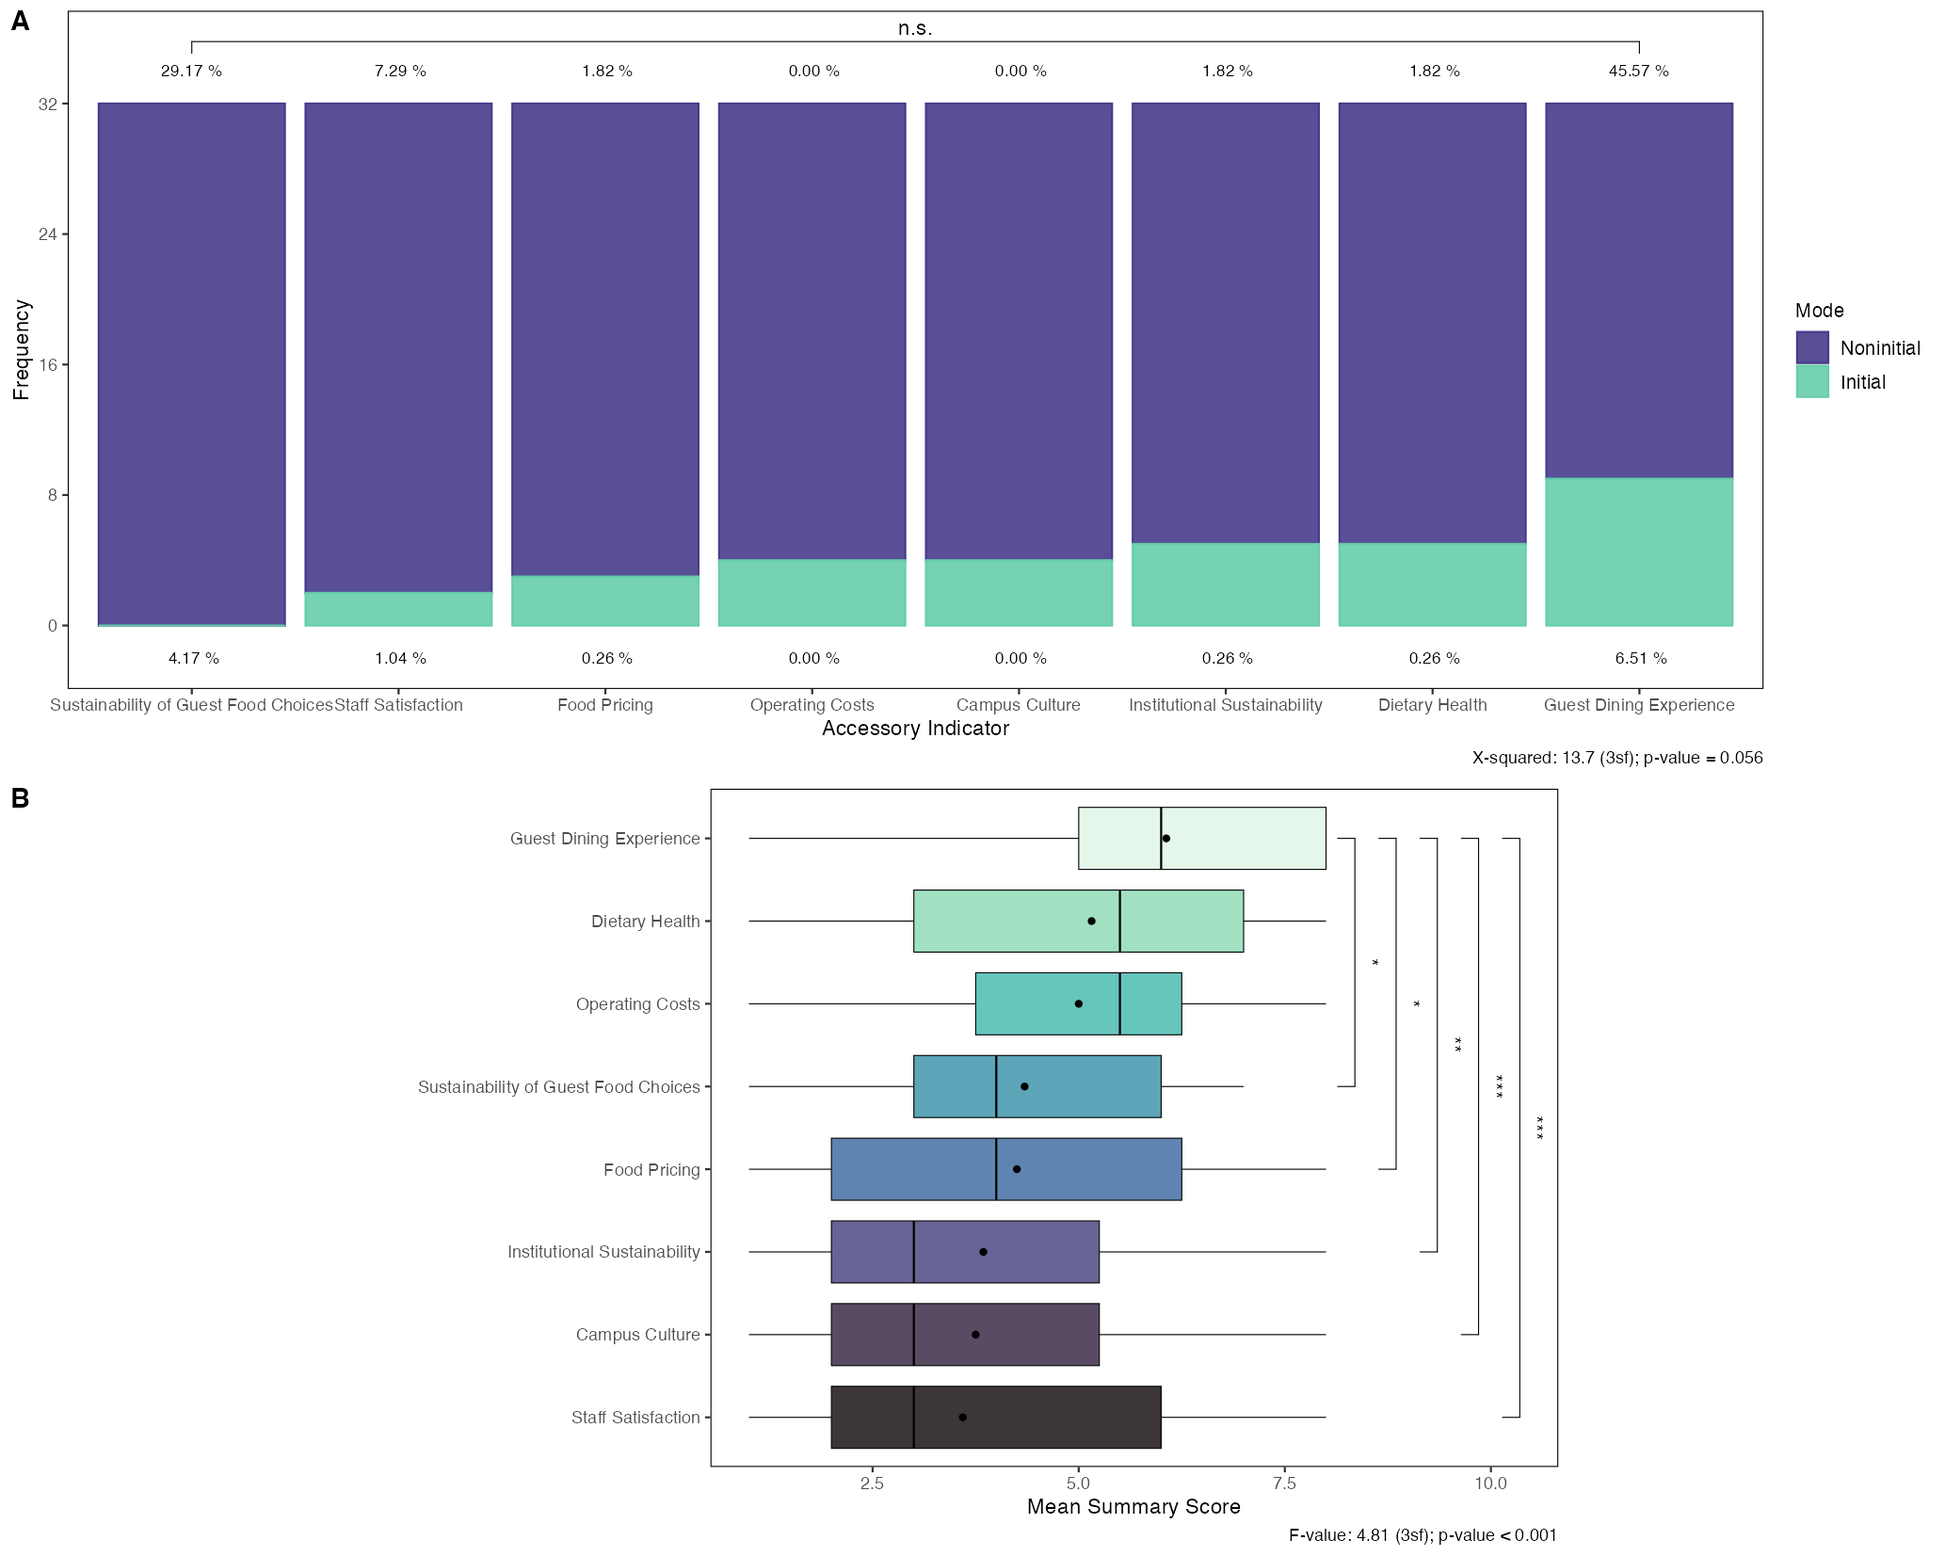
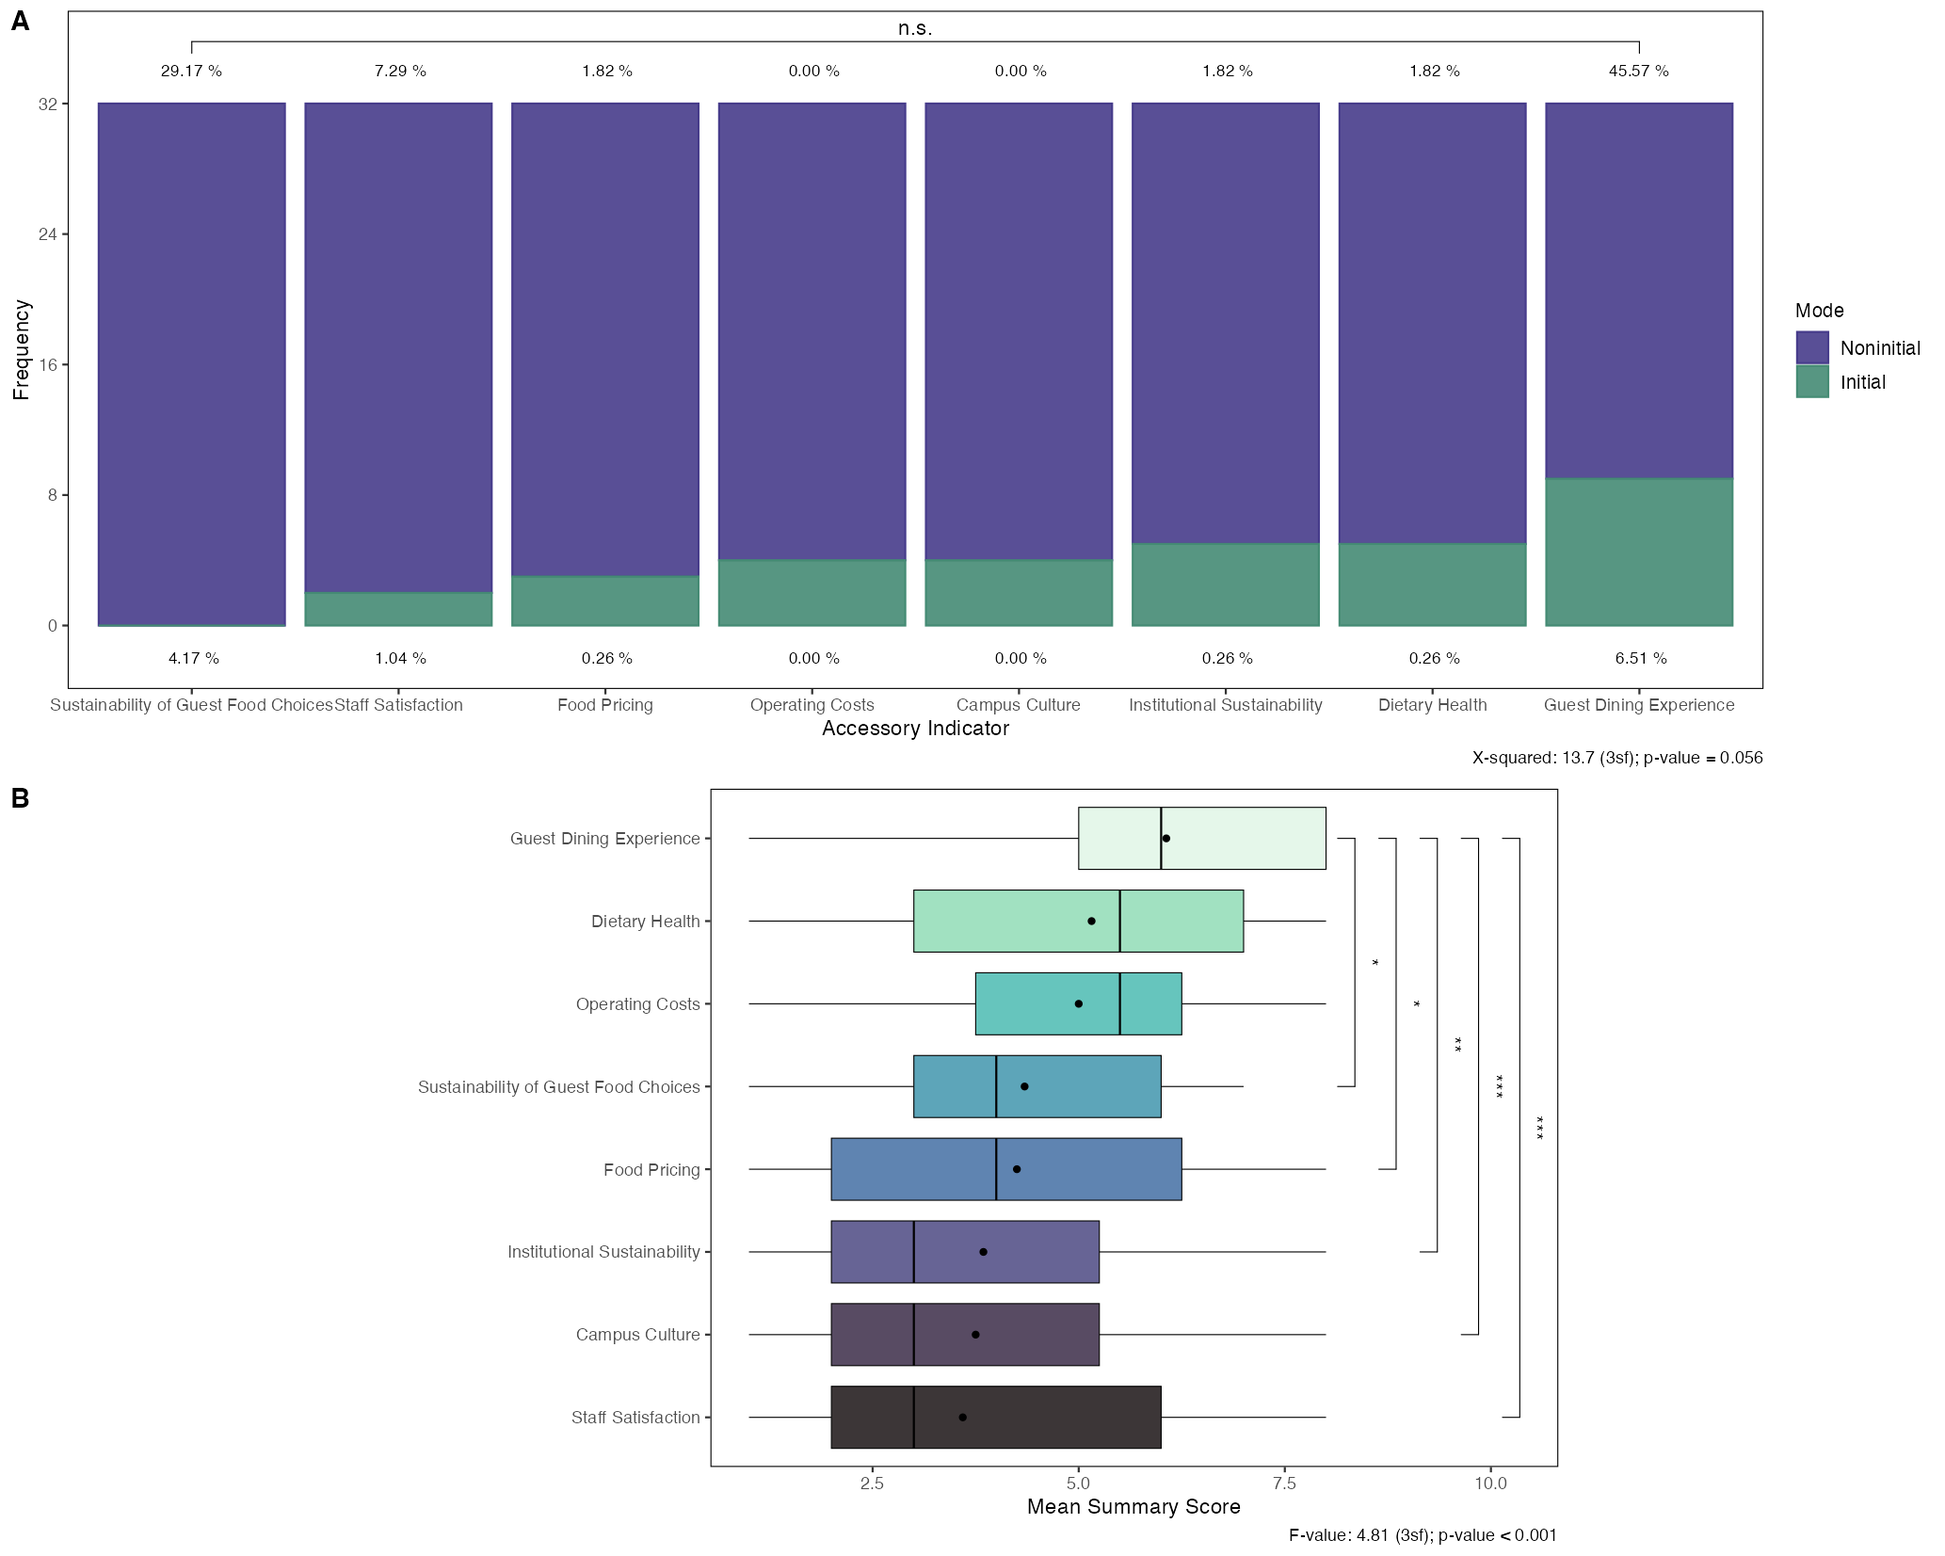
began tabulating frequency with which indicators were selected ahead of other comparison indicators; completed frequency tabulations for the following indicators: guest dining experience, dietary health, and operating costs

Changed region(s): [[0.1549, 0.3085, 0.8984, 0.4011], [0.9293, 0.216, 0.9603, 0.2777]]

diff --git a/scripts/cleaning-script.md b/scripts/cleaning-script.md
@@ -1863,8 +1863,8 @@ first_choice_frequency_plot <- ggplot(first_choice_contingency_table[order(first
   geom_signif(comparisons=list(c("Guest Dining Experience","Sustainability of Guest Food Choices")),color="black",size=0.25,annotation="n.s.",y_position=34,tip_length=0.02,vjust=0) +
   xlab("Accessory Indicator") +
   ylab("Frequency") +
-  scale_fill_manual(values=c("slateblue4","mediumaquamarine")) +
-  scale_color_manual(values=c("slateblue4","mediumaquamarine")) +
+  scale_fill_manual(values=c("slateblue4","aquamarine4")) +
+  scale_color_manual(values=c("slateblue4","aquamarine4")) +
   scale_x_discrete(limits=c("Sustainability of Guest Food Choices","Staff Satisfaction","Food Pricing","Operating Costs","Campus Culture","Institutional Sustainability","Dietary Health","Guest Dining Experience")) +
   scale_y_continuous(breaks=c(0,8,16,24,32)) +
   guides(fill=guide_legend(title="Mode"),color=guide_legend(title="Mode")) +
@@ -1884,10 +1884,193 @@ preliminary_indicator_rankings
 ![](cleaning-script_files/figure-gfm/unnamed-chunk-89-1.png)<!-- -->
 
 ``` r
-survey_data %>% mutate(dietary_sustainability_over_dietary_health=case_when(dietary_sustainability_ranking<dietary_health_ranking ~ 1,
-                                                                                   dietary_sustainability_ranking>dietary_health_ranking ~ 0)) %>%
-  summarise(dietary_sustainability_over_dietary_health_sum=sum(dietary_sustainability_over_dietary_health))
+priority_score_frequencies <- tibble(comparison_indicator=c("Guest Dining Experience","Dietary Health","Operating Costs","Sustainability of Guest Food Choices","Food Pricing","Institutional Sustainability","Campus Culture","Staff Satisfaction"),guest_dining_experience_selection_frequency=as.double(NA),dietary_health_selection_frequency=as.double(NA),operating_costs_selection_frequency=as.double(NA),dietary_sustainability_selection_frequency=as.double(NA),food_pricing_selection_frequency=as.double(NA),institutional_sustainability_selection_frequency=as.double(NA),campus_culture_selection_frequency=as.double(NA),staff_satisfaction_selection_frequency=as.double(NA))
+priority_score_frequencies
 ```
 
-    ##   dietary_sustainability_over_dietary_health_sum
-    ## 1                                             10
+    ## # A tibble: 8 × 9
+    ##   comparison_indicator             guest_dining_experie…¹ dietary_health_selec…²
+    ##   <chr>                                             <dbl>                  <dbl>
+    ## 1 Guest Dining Experience                              NA                     NA
+    ## 2 Dietary Health                                       NA                     NA
+    ## 3 Operating Costs                                      NA                     NA
+    ## 4 Sustainability of Guest Food Ch…                     NA                     NA
+    ## 5 Food Pricing                                         NA                     NA
+    ## 6 Institutional Sustainability                         NA                     NA
+    ## 7 Campus Culture                                       NA                     NA
+    ## 8 Staff Satisfaction                                   NA                     NA
+    ## # ℹ abbreviated names: ¹guest_dining_experience_selection_frequency,
+    ## #   ²dietary_health_selection_frequency
+    ## # ℹ 6 more variables: operating_costs_selection_frequency <dbl>,
+    ## #   dietary_sustainability_selection_frequency <dbl>,
+    ## #   food_pricing_selection_frequency <dbl>,
+    ## #   institutional_sustainability_selection_frequency <dbl>,
+    ## #   campus_culture_selection_frequency <dbl>, …
+
+``` r
+priority_score_tabulation <- survey_data %>%
+  select(id,dietary_health_ranking,dietary_sustainability_ranking,institutional_sustainability_ranking,food_pricing_ranking,operating_costs_ranking,guest_experience_ranking,staff_satisfaction_ranking,campus_culture_ranking)
+```
+
+``` r
+guest_experience_priority_score_tabulation <- priority_score_tabulation %>%
+  mutate(guest_experience_over_guest_experience=0) %>%
+  mutate(guest_experience_over_dietary_health=case_when(guest_experience_ranking<dietary_health_ranking~1,
+                                                        guest_experience_ranking>dietary_health_ranking~0)) %>%
+  mutate(guest_experience_over_operating_costs=case_when(guest_experience_ranking<operating_costs_ranking~1,
+                                                        guest_experience_ranking>operating_costs_ranking~0)) %>%
+  mutate(guest_experience_over_dietary_sustainability=case_when(guest_experience_ranking<dietary_sustainability_ranking~1,
+                                                        guest_experience_ranking>dietary_sustainability_ranking~0)) %>%
+  mutate(guest_experience_over_food_pricing=case_when(guest_experience_ranking<food_pricing_ranking~1,
+                                                        guest_experience_ranking>food_pricing_ranking~0)) %>%
+   mutate(guest_experience_over_institutional_sustainability=case_when(guest_experience_ranking<institutional_sustainability_ranking~1,
+                                                        guest_experience_ranking>institutional_sustainability_ranking~0)) %>%
+  mutate(guest_experience_over_campus_culture=case_when(guest_experience_ranking<campus_culture_ranking~1,
+                                                        guest_experience_ranking>campus_culture_ranking~0)) %>%
+  mutate(guest_experience_over_staff_satisfaction=case_when(guest_experience_ranking<staff_satisfaction_ranking~1,
+                                                        guest_experience_ranking>staff_satisfaction_ranking~0)) %>%
+  select(id,guest_experience_over_dietary_health,guest_experience_over_operating_costs,guest_experience_over_dietary_sustainability,guest_experience_over_food_pricing,guest_experience_over_institutional_sustainability,guest_experience_over_campus_culture,guest_experience_over_staff_satisfaction,guest_experience_over_guest_experience) %>%
+  pivot_longer(!id,names_to="condition",values_to="frequency") %>%
+  group_by(condition) %>%
+  summarise(instances=sum(frequency))
+guest_experience_priority_score_tabulation
+```
+
+    ## # A tibble: 8 × 2
+    ##   condition                                          instances
+    ##   <chr>                                                  <dbl>
+    ## 1 guest_experience_over_campus_culture                      25
+    ## 2 guest_experience_over_dietary_health                      20
+    ## 3 guest_experience_over_dietary_sustainability              24
+    ## 4 guest_experience_over_food_pricing                        22
+    ## 5 guest_experience_over_guest_experience                     0
+    ## 6 guest_experience_over_institutional_sustainability        25
+    ## 7 guest_experience_over_operating_costs                     21
+    ## 8 guest_experience_over_staff_satisfaction                  25
+
+``` r
+priority_score_frequencies <- priority_score_frequencies %>%
+  mutate(guest_dining_experience_selection_frequency=c(0,20,21,24,22,25,25,25))
+```
+
+``` r
+dietary_health_priority_score_tabulation <- priority_score_tabulation %>%
+  mutate(dietary_health_over_guest_experience=case_when(dietary_health_ranking<guest_experience_ranking~1,
+                                                        dietary_health_ranking>guest_experience_ranking~0)) %>%
+  mutate(dietary_health_over_dietary_health=0) %>%
+  mutate(dietary_health_over_operating_costs=case_when(dietary_health_ranking<operating_costs_ranking~1,
+                                                        dietary_health_ranking>operating_costs_ranking~0)) %>%
+  mutate(dietary_health_over_dietary_sustainability=case_when(dietary_health_ranking<dietary_sustainability_ranking~1,
+                                                        dietary_health_ranking>dietary_sustainability_ranking~0)) %>%
+  mutate(dietary_health_over_food_pricing=case_when(dietary_health_ranking<food_pricing_ranking~1,
+                                                        dietary_health_ranking>food_pricing_ranking~0)) %>%
+  mutate(dietary_health_over_institutional_sustainability=case_when(dietary_health_ranking<institutional_sustainability_ranking~1,
+                                                        dietary_health_ranking>institutional_sustainability_ranking~0)) %>%
+  mutate(dietary_health_over_campus_culture=case_when(dietary_health_ranking<campus_culture_ranking~1,
+                                                        dietary_health_ranking>campus_culture_ranking~0)) %>%
+  mutate(dietary_health_over_staff_satisfaction=case_when(dietary_health_ranking<staff_satisfaction_ranking~1,
+                                                        dietary_health_ranking>staff_satisfaction_ranking~0)) %>%
+  select(id,dietary_health_over_guest_experience,dietary_health_over_dietary_health,dietary_health_over_operating_costs,dietary_health_over_dietary_sustainability,dietary_health_over_food_pricing,dietary_health_over_institutional_sustainability,dietary_health_over_campus_culture,dietary_health_over_staff_satisfaction) %>%
+  pivot_longer(!id,names_to="condition",values_to="instances") %>%
+  group_by(condition) %>%
+  summarise(instances=sum(instances))
+dietary_health_priority_score_tabulation
+```
+
+    ## # A tibble: 8 × 2
+    ##   condition                                        instances
+    ##   <chr>                                                <dbl>
+    ## 1 dietary_health_over_campus_culture                      21
+    ## 2 dietary_health_over_dietary_health                       0
+    ## 3 dietary_health_over_dietary_sustainability              22
+    ## 4 dietary_health_over_food_pricing                        19
+    ## 5 dietary_health_over_guest_experience                    12
+    ## 6 dietary_health_over_institutional_sustainability        19
+    ## 7 dietary_health_over_operating_costs                     17
+    ## 8 dietary_health_over_staff_satisfaction                  23
+
+``` r
+priority_score_frequencies <- priority_score_frequencies %>%
+  mutate(dietary_health_selection_frequency=c(12,0,17,22,19,19,21,23))
+priority_score_frequencies
+```
+
+    ## # A tibble: 8 × 9
+    ##   comparison_indicator             guest_dining_experie…¹ dietary_health_selec…²
+    ##   <chr>                                             <dbl>                  <dbl>
+    ## 1 Guest Dining Experience                               0                     12
+    ## 2 Dietary Health                                       20                      0
+    ## 3 Operating Costs                                      21                     17
+    ## 4 Sustainability of Guest Food Ch…                     24                     22
+    ## 5 Food Pricing                                         22                     19
+    ## 6 Institutional Sustainability                         25                     19
+    ## 7 Campus Culture                                       25                     21
+    ## 8 Staff Satisfaction                                   25                     23
+    ## # ℹ abbreviated names: ¹guest_dining_experience_selection_frequency,
+    ## #   ²dietary_health_selection_frequency
+    ## # ℹ 6 more variables: operating_costs_selection_frequency <dbl>,
+    ## #   dietary_sustainability_selection_frequency <dbl>,
+    ## #   food_pricing_selection_frequency <dbl>,
+    ## #   institutional_sustainability_selection_frequency <dbl>,
+    ## #   campus_culture_selection_frequency <dbl>, …
+
+``` r
+operating_costs_priority_score_tabulation <- priority_score_tabulation %>%
+  mutate(operating_costs_over_guest_experience=case_when(operating_costs_ranking<guest_experience_ranking~1,
+                                                        operating_costs_ranking>guest_experience_ranking~0)) %>%
+  mutate(operating_costs_over_dietary_health=case_when(operating_costs_ranking<dietary_health_ranking~1,
+                                                        operating_costs_ranking>dietary_health_ranking~0)) %>%
+  mutate(operating_costs_over_operating_costs=0) %>%
+  mutate(operating_costs_over_dietary_sustainability=case_when(operating_costs_ranking<dietary_sustainability_ranking~1,
+                                                        operating_costs_ranking>dietary_sustainability_ranking~0)) %>%
+  mutate(operating_costs_over_food_pricing=case_when(operating_costs_ranking<food_pricing_ranking~1,
+                                                        operating_costs_ranking>food_pricing_ranking~0)) %>%
+  mutate(operating_costs_over_institutional_sustainability=case_when(operating_costs_ranking<institutional_sustainability_ranking~1,
+                                                        operating_costs_ranking>institutional_sustainability_ranking~0)) %>%
+  mutate(operating_costs_over_campus_culture=case_when(operating_costs_ranking<campus_culture_ranking~1,
+                                                        operating_costs_ranking>campus_culture_ranking~0)) %>%
+  mutate(operating_costs_over_staff_satisfaction=case_when(operating_costs_ranking<staff_satisfaction_ranking~1,
+                                                        operating_costs_ranking>staff_satisfaction_ranking~0)) %>%
+  select(id,operating_costs_over_guest_experience,operating_costs_over_dietary_health,operating_costs_over_operating_costs,operating_costs_over_dietary_sustainability,operating_costs_over_food_pricing,operating_costs_over_institutional_sustainability,operating_costs_over_campus_culture,operating_costs_over_staff_satisfaction) %>%
+  pivot_longer(!id,names_to="condition",values_to="instances") %>%
+  group_by(condition) %>%
+  summarise(instances=sum(instances))
+operating_costs_priority_score_tabulation
+```
+
+    ## # A tibble: 8 × 2
+    ##   condition                                         instances
+    ##   <chr>                                                 <dbl>
+    ## 1 operating_costs_over_campus_culture                      20
+    ## 2 operating_costs_over_dietary_health                      15
+    ## 3 operating_costs_over_dietary_sustainability              18
+    ## 4 operating_costs_over_food_pricing                        21
+    ## 5 operating_costs_over_guest_experience                    11
+    ## 6 operating_costs_over_institutional_sustainability        22
+    ## 7 operating_costs_over_operating_costs                      0
+    ## 8 operating_costs_over_staff_satisfaction                  21
+
+``` r
+priority_score_frequencies <- priority_score_frequencies %>%
+  mutate(operating_costs_selection_frequency=c(11,15,0,18,21,22,20,21))
+priority_score_frequencies
+```
+
+    ## # A tibble: 8 × 9
+    ##   comparison_indicator             guest_dining_experie…¹ dietary_health_selec…²
+    ##   <chr>                                             <dbl>                  <dbl>
+    ## 1 Guest Dining Experience                               0                     12
+    ## 2 Dietary Health                                       20                      0
+    ## 3 Operating Costs                                      21                     17
+    ## 4 Sustainability of Guest Food Ch…                     24                     22
+    ## 5 Food Pricing                                         22                     19
+    ## 6 Institutional Sustainability                         25                     19
+    ## 7 Campus Culture                                       25                     21
+    ## 8 Staff Satisfaction                                   25                     23
+    ## # ℹ abbreviated names: ¹guest_dining_experience_selection_frequency,
+    ## #   ²dietary_health_selection_frequency
+    ## # ℹ 6 more variables: operating_costs_selection_frequency <dbl>,
+    ## #   dietary_sustainability_selection_frequency <dbl>,
+    ## #   food_pricing_selection_frequency <dbl>,
+    ## #   institutional_sustainability_selection_frequency <dbl>,
+    ## #   campus_culture_selection_frequency <dbl>, …
